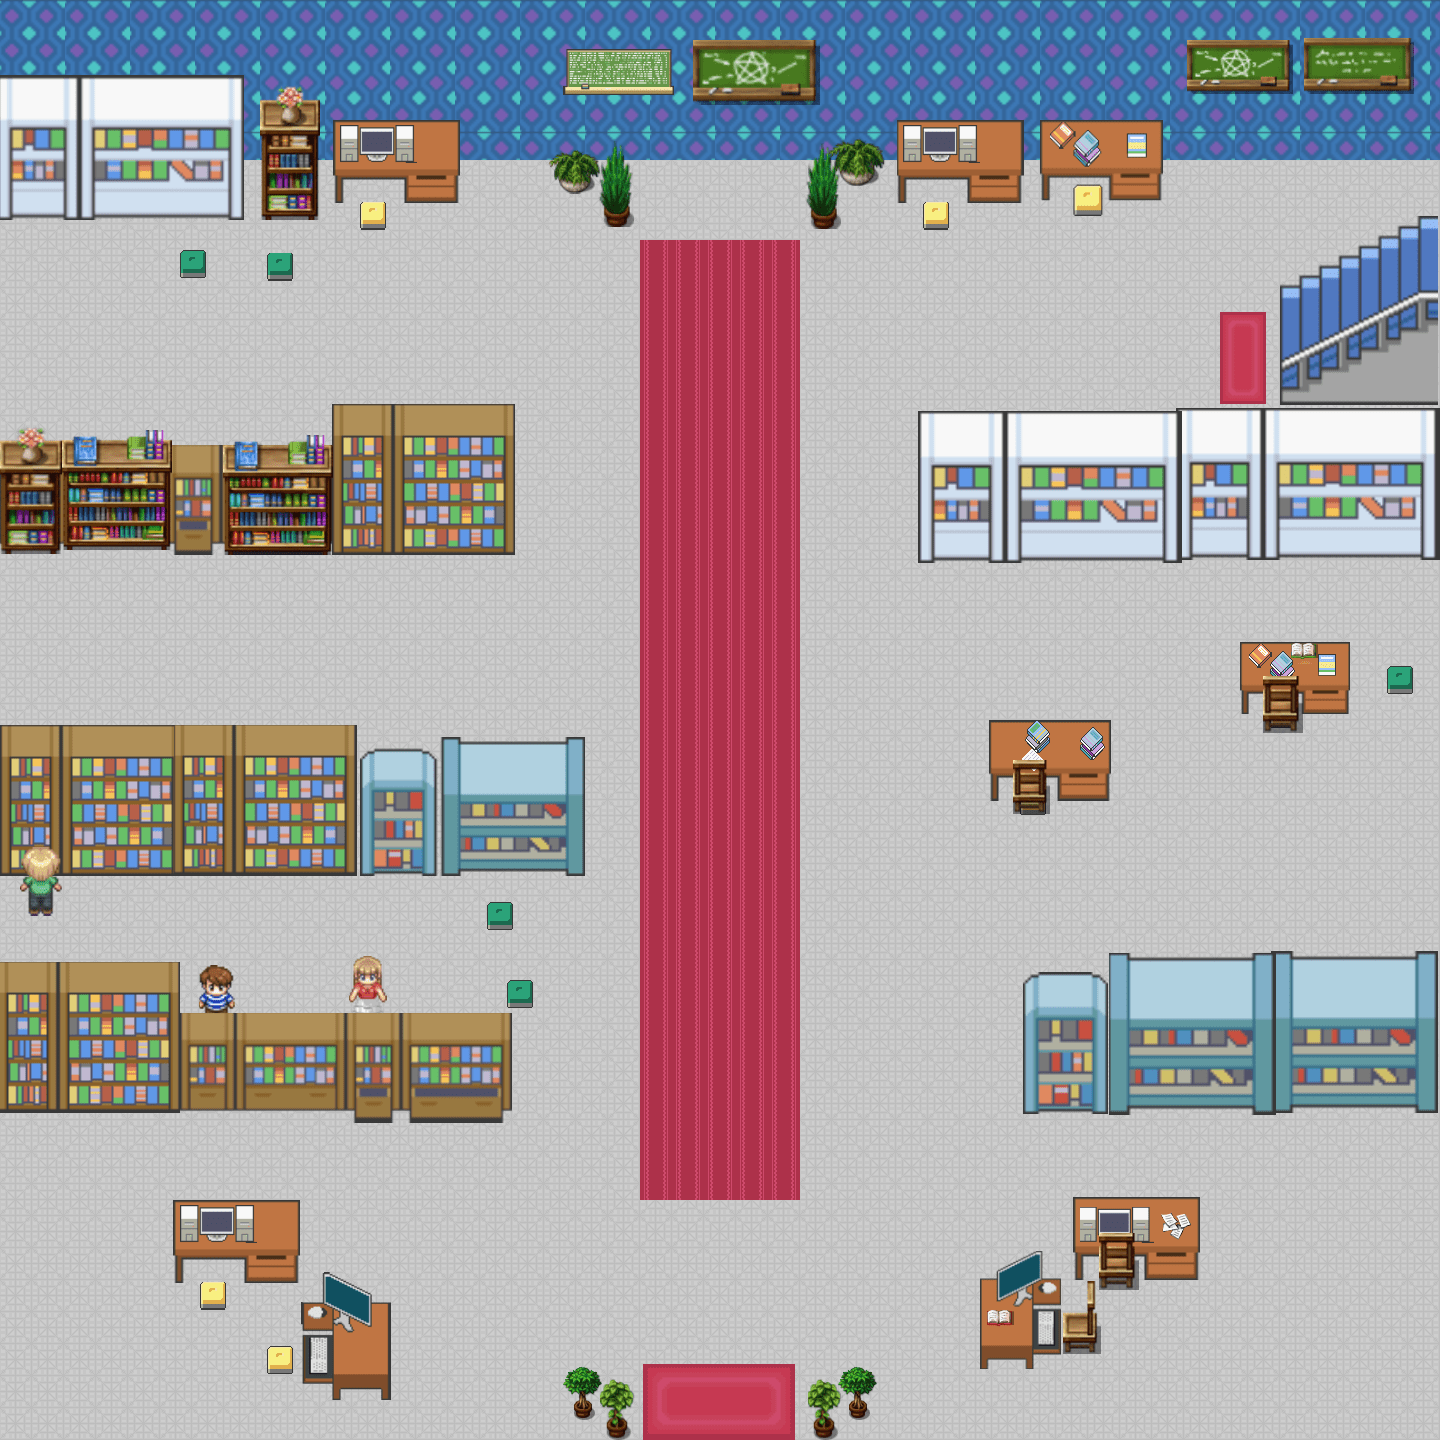
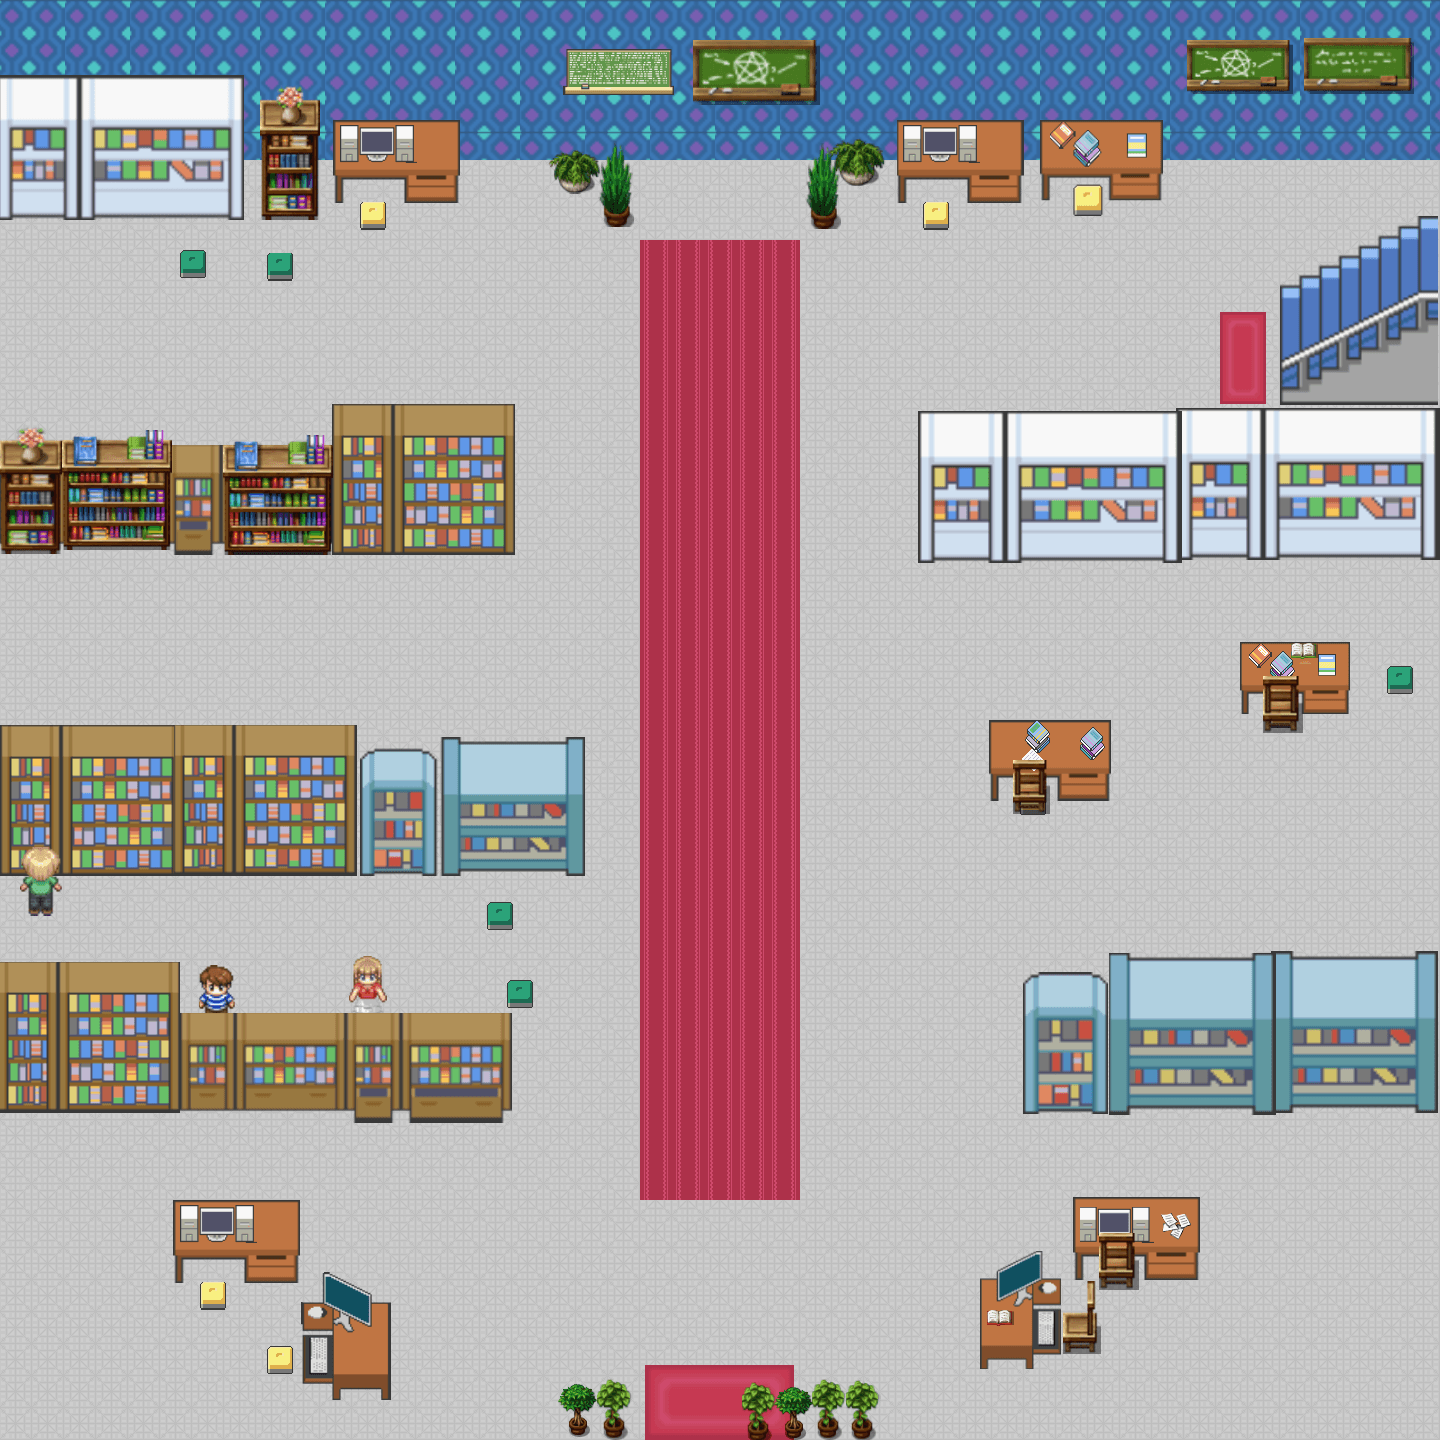
Small changes in maps

diff --git a/src/data/Maps/town_center.js b/src/data/Maps/town_center.js
@@ -9,7 +9,7 @@ export const townCenter = {
         [  10,  10,  10,  10,  10,  10,   0,   0,  10,  10,  10,  10,  10,  10,  10,  10,  10,  10,  10,  10,  10,  10,],
         [  10,  10,  10,  10,  10,  10,   0,   0,  10,  10,  10,  10,  10,  10,  10,  10,  10,  10,  10,  10,  10,  10,],
         [  10,  10,  10,  10,  10,  10,  10,   0,  10,  10,  10,  10,  10,  10,  10,  10,  10,  10,  10,  10,  10,  10,],
-        [  10,  10,  10,  10,  10,  10,   0,   0,   0,   0,   0,  10,  10,  10,  10,  10,  10,  10,  10,  10,  10,  10,],
+        [  10,  10,  10,  10,  10,  10,   0,   0,   0,  10,   0,  10,  10,  10,  10,  10,  10,  10,  10,  10,  10,  10,],
         [  10,  10,  10,  10,  10,  10,   0,   0,   0,   0,   0,  10,  10,  10,  10,  10,  10,  10,  10,  10,  10,  10,],
         [  10,  10,  10,  10,  10,  10,  10,  10,  10,  10,   0,  10,  10,  10,  10,  10,  10,  10,  10,  10,  10,  10,],
         [  10,  10,  10,  10,  10,  10,  10,  10,  10,  10,   0,  10,  10,  10,  10,  10,  10,  10,  10,  10,  10,  10,],
@@ -18,7 +18,7 @@ export const townCenter = {
         [  10,  10,   0,  10,  10,  10,  10,  10,  10,  10,   0,  10,  10,  10,  10,   0,  10,  10,  10,  10,  10,  10,],
         [  10,  10,   0,  10,  10,  10,  10,  10,  10,  10,   0,  10,  10,  10,  10,   0,  10,  10,  10,  10,  10,  10,],
         [  10,  10,   0,   0,   0,   0,   0,   0,   0,   0,   0,   0,   0,   0,   0,   0,   0,   0,   0,   0,   0,   0,],
-        [  10,  10,   0,   0,   0,   0,   0,   0,   0,   0,   0,   0,   0,   0,   0,   0,   0,   0,   0,   0,   0,   0,],
+        [  10,  10,   0,   0,   0,   0,   0,   0,   0,   0,   0,   0,   0,   0,   0,   0,   0,   0,   0,   0,  10,  10,],
         [  10,  10,   0,  10,  10,  10,  10,  10,  10,  10,   0,  10,  10,  10,  10,  10,  10,  10,  10,  10,  10,  10,],
         [  10,  10,   0,  10,  10,  10,  10,  10,  10,  10,   0,  10,  10,  10,  10,  10,  10,  10,  10,  10,  10,  10,],
         [  10,  10,   0,  10,  10,  10,  10,  10,  10,  10,   0,  10,  10,  10,  10,  10,  10,  10,  10,  10,  10,  10,],

diff --git a/src/data/Maps/town_south.js b/src/data/Maps/town_south.js
@@ -7,7 +7,7 @@ export const townSouth = {
         [  10,  10,  10,  10,  10,  10,  10,  10,   0,   0,  10,  10,],
         [  10,  10,  10,  10,  10,  10,  10,  10,   0,   0,   0,   0,],
         [  10,  10,  10,  10,  10,  10,  10,  10,   0,   0,   0,   0,],
-        [  10,  10,  10,  10,   0,   0,  10,  10,   0,   0,   0,   0,],
+        [  10,  10,  10,  10,  10,   0,  10,  10,   0,   0,   0,   0,],
         [  10,  10,  10,   0,   0,   0,   0,   0,   0,  10,  10,   0,],
         [  10,  10,  10,   0,   0,   0,   0,   0,  10,   0,   0,   0,],
         [  10,  10,  10,  10,  10,  10,  10,   0,  10,  10,  10,  10,],

diff --git a/src/data/Maps/library.js b/src/data/Maps/library.js
@@ -20,7 +20,7 @@ export const library = {
         [   0,   0,   0,   0,   0,   0,   0,  0,   0,  0,  0,   0,   0,   0,   0,   0,   0,   0,],
         [   0,   0,  10,  10,   0,   0,   0,  0,   0,  0,  0,   0,   0,  10,  10,   0,   0,   0,],
         [   0,   0,   0,  10,  10,   0,   0,  0,   0,  0,  0,   0,  10,  10,   0,   0,   0,   0,],
-        [   0,   0,   0,   0,   0,   0,   0,  10,   0,  0,  10,   0,  0,  0,  0,  0,  0,  0,],
+        [   0,   0,   0,   0,   0,   0,   0,  10,   0, 10,  10,   0,  0,  0,  0,  0,  0,  0,],
 
     ],
 

diff --git a/src/data/Levels/1/_town_center.js b/src/data/Levels/1/_town_center.js
@@ -43,7 +43,7 @@ export const _townCenter = {
                 skin: SKINS["crush_4"],
                 direction: RIGHT,
                 stationary: false,
-                pathArr: [[7,7], [7,8]],
+                pathArr: [[7,6], [7,7]],
                 frameInterval: 100,
                 moveInterval: 500,
                 waitInterval: 2000,
